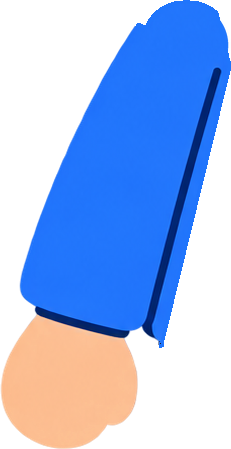
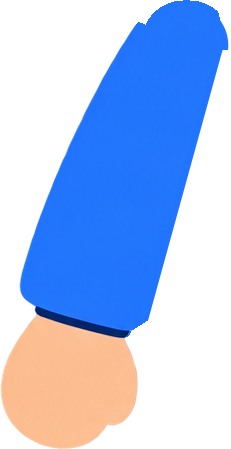
Tuấn: viền tay áo chỉ hiện khi tay nép sát thân áo, tay đưa ra không còn viền lệch
- Đường viền tối giữa tay áo và thân áo tách thành lớp riêng, gắn theo tay và chỉ hiện khi tay nép sát thân (đứng, nói, vẫy, chỉ, suy nghĩ); khi đi, nhảy, nhún vai, reo hò thì ẩn hẳn
- Mép trong tay áo khi tay đưa ra là đường thẳng mượt, hết mẩu thân áo và góc nhọn dính theo tay
- Tay buông giữ sát thân hơn khi đứng yên và nói (Fed và các nhân vật ảnh khác cũng vậy)

Claude-Session: https://claude.ai/code/session_01KE7T9iurw6JNVmRrpUeRTW

Changed region(s): [[0.5455, 0.0935, 1.0, 0.7795]]

diff --git a/remotion-remake/src/remotion/fedtoon/Puppet.tsx b/remotion-remake/src/remotion/fedtoon/Puppet.tsx
@@ -424,13 +424,13 @@ function rigPose(action: Action, expression: Expression, t: number) {
   const pose = (() => {
     switch (action) {
       case "wave":
-        return { head: 3 + wave(t, 1.1) * 2, raise: 0, bend: -wave(t, 2.2) * 16, hang: 2, sway: 0 };
+        return { head: 3 + wave(t, 1.1) * 2, raise: 0, bend: -wave(t, 2.2) * 16, hang: 0.3, sway: 0 };
       case "point":
-        return { head: 2, raise: 6 - wave(t, 0.5) * 1.5, bend: 0, hang: 1, sway: 0 };
+        return { head: 2, raise: 6 - wave(t, 0.5) * 1.5, bend: 0, hang: 0.3, sway: 0 };
       case "walk":
         return { head: wave(t, 1.8) * 1.5, raise: -wave(t, 1.8) * 6, bend: 0, hang: wave(t, 1.8) * 9, sway: wave(t, 1.8) * 1.5 };
       case "think":
-        return { head: -6, raise: 20, bend: 14 - wave(t, 0.4) * 1.5, hang: 1, sway: 0 };
+        return { head: -6, raise: 20, bend: 14 - wave(t, 0.4) * 1.5, hang: 0.3, sway: 0 };
       case "cheer":
         return { head: wave(t, 2.5) * 3, raise: 12, bend: 6 - wave(t, 2.5) * 10, hang: 10 + wave(t, 2.5) * 5, sway: 0 };
       case "shrug": {
@@ -440,9 +440,9 @@ function rigPose(action: Action, expression: Expression, t: number) {
       case "jump":
         return { head: wave(t, 1.1) * 2, raise: 8, bend: 4, hang: 8, sway: 0 };
       case "talk":
-        return { head: wave(t, 0.7) * 3, raise: 3, bend: -wave(t, 0.8) * 9, hang: 1 + wave(t, 0.8, 0.3) * 2, sway: 0 };
+        return { head: wave(t, 0.7) * 3, raise: 3, bend: -wave(t, 0.8) * 9, hang: 0.3 + wave(t, 0.8, 0.3) * 0.3, sway: 0 };
       default:
-        return { head: wave(t, 0.4) * 1.5, raise: 0, bend: -wave(t, 0.5) * 3, hang: 1 + wave(t, 0.5) * 1.5, sway: 0 };
+        return { head: wave(t, 0.4) * 1.5, raise: 0, bend: -wave(t, 0.5) * 3, hang: 0.2 + wave(t, 0.5) * 0.2, sway: 0 };
     }
   })();
   return { ...pose, head: pose.head + tilt };
@@ -498,13 +498,27 @@ const Joint: React.FC<RigCtx & { pivot: readonly number[]; deg: number; children
  * An arm: each segment turns around its pivot, inside the previous one; later segments sit behind
  * earlier ones. Only the segments on the requested layer (`front` or not) are drawn.
  */
-const RigArm: React.FC<RigCtx & { segments: CharacterRig["arms"][number]["segments"]; angles: number[]; front: boolean }> = ({ rig, s, segments, angles, front }) => {
+type ArmLayer = "back" | "front" | "seam";
+
+/**
+ * Opacity of a sleeve seam: 1 while the sleeve stays against the body (its farthest point moved less
+ * than ~4 source px), fading out by ~10 px: an arm held out in the air has no seam line.
+ */
+/** Actions where the arms stay against the body (other actions swing them out: no seams at all). */
+const SNUG_ACTIONS: readonly Action[] = ["idle", "talk", "wave", "point", "think"];
+
+const seamOpacity = (reach: number, deg: number) => Math.min(1, Math.max(0, (10 - reach * Math.sin((Math.abs(deg) * Math.PI) / 180)) / 6));
+
+const RigArm: React.FC<RigCtx & { segments: CharacterRig["arms"][number]["segments"]; angles: number[]; layer: ArmLayer; turned?: number }> = ({ rig, s, segments, angles, layer, turned = 0 }) => {
   const [first, ...rest] = segments;
   if (!first) return null;
+  const deg = angles[0] ?? 0;
+  const seam = layer === "seam" && first.seam ? seamOpacity(first.seam.reach, turned + deg) : 0;
   return (
-    <Joint rig={rig} s={s} pivot={first.pivot} deg={angles[0] ?? 0}>
-      {rest.length > 0 && <RigArm rig={rig} s={s} segments={rest} angles={angles.slice(1)} front={front} />}
-      {!!first.front === front && <RigImg rig={rig} s={s} name={first.part} />}
+    <Joint rig={rig} s={s} pivot={first.pivot} deg={deg}>
+      {rest.length > 0 && <RigArm rig={rig} s={s} segments={rest} angles={angles.slice(1)} layer={layer} turned={turned + deg} />}
+      {layer !== "seam" && !!first.front === (layer === "front") && <RigImg rig={rig} s={s} name={first.part} />}
+      {seam > 0 && first.seam && <RigImg rig={rig} s={s} name={first.seam.part} style={{ opacity: seam }} />}
     </Joint>
   );
 };
@@ -688,10 +702,11 @@ const RigPuppet: React.FC<PuppetProps & { rig: CharacterRig; eyes: number; width
             const arm = rig.arms[Number(i)];
             if (!arm) return null;
             const state = armAngles(arm, Number(i));
-            const cap = !state.drawn && layer !== "front" ? arm.cap : undefined;
+            if (layer === "seam" && !SNUG_ACTIONS.includes(action)) return null;
+            const cap = !state.drawn && !layer ? arm.cap : undefined;
             return (
               <React.Fragment key={item}>
-                <RigArm rig={rig} s={s} segments={arm.segments} angles={state.angles} front={layer === "front"} />
+                <RigArm rig={rig} s={s} segments={arm.segments} angles={state.angles} layer={layer === "front" || layer === "seam" ? layer : "back"} />
                 {cap && (
                   <div
                     style={{

diff --git a/remotion-remake/src/fedtoon/cast-rigs.ts b/remotion-remake/src/fedtoon/cast-rigs.ts
@@ -338,6 +338,18 @@ export const CAST_RIGS: Record<string, CharacterRig> = {
         "w": 391,
         "h": 992
       },
+      "arm-r-upper-seam": {
+        "x": 595,
+        "y": 690,
+        "w": 19,
+        "h": 92
+      },
+      "arm-l-seam": {
+        "x": 316,
+        "y": 690,
+        "w": 54,
+        "h": 271
+      },
       "mouth": {
         "x": 447,
         "y": 471,
@@ -374,7 +386,11 @@ export const CAST_RIGS: Record<string, CharacterRig> = {
             "pivot": [
               600,
               672
-            ]
+            ],
+            "seam": {
+              "part": "arm-r-upper-seam",
+              "reach": 107
+            }
           },
           {
             "part": "arm-r-lower",
@@ -395,7 +411,11 @@ export const CAST_RIGS: Record<string, CharacterRig> = {
             "pivot": [
               355,
               670
-            ]
+            ],
+            "seam": {
+              "part": "arm-l-seam",
+              "reach": 292
+            }
           }
         ]
       }
@@ -404,6 +424,8 @@ export const CAST_RIGS: Record<string, CharacterRig> = {
       "arm:0",
       "arm:1",
       "body",
+      "arm:0:seam",
+      "arm:1:seam",
       "head"
     ],
     "eyes": [
@@ -788,6 +810,12 @@ export const CAST_RIGS: Record<string, CharacterRig> = {
         "w": 445,
         "h": 948
       },
+      "arm-l-seam": {
+        "x": 318,
+        "y": 665,
+        "w": 96,
+        "h": 271
+      },
       "mouth": {
         "x": 517,
         "y": 400,
@@ -844,7 +872,11 @@ export const CAST_RIGS: Record<string, CharacterRig> = {
             "pivot": [
               377,
               644
-            ]
+            ],
+            "seam": {
+              "part": "arm-l-seam",
+              "reach": 295
+            }
           }
         ],
         "trim": true
@@ -854,6 +886,7 @@ export const CAST_RIGS: Record<string, CharacterRig> = {
       "arm:0",
       "arm:1",
       "body",
+      "arm:1:seam",
       "head"
     ],
     "eyes": [

diff --git a/remotion-remake/src/fedtoon/rig.ts b/remotion-remake/src/fedtoon/rig.ts
@@ -28,7 +28,11 @@ export type CharacterRig = {
   arms: readonly {
     side: "left" | "right";
     kind: "raised" | "hanging";
-    segments: readonly { part: string; pivot: Pt; front?: boolean }[];
+    /**
+     * `seam`: the dark line where the sleeve meets the body, drawn by "arm:<i>:seam" over the body and
+     * only while the sleeve stays against the body (`reach` = its farthest pixel from the pivot).
+     */
+    segments: readonly { part: string; pivot: Pt; front?: boolean; seam?: { part: string; reach: number } }[];
     rest?: readonly number[];
     point?: readonly number[];
     /** Shoulder side of the first segment left to the body, outside its joint disc (assets/cast/split.py). */
@@ -42,7 +46,7 @@ export type CharacterRig = {
   shoulderShare?: number;
   /** Other drawings of the same character for some actions, e.g. { wave: "man-wave" } (ids in CAST_RIGS). */
   poses?: Record<string, string>;
-  /** Drawing order, back to front: part names, "arm:<index>", "arm:<index>:front" or "head" (head, brows, mouth, eyelids). */
+  /** Drawing order, back to front: part names, "arm:<index>", "arm:<index>:front", "arm:<index>:seam" or "head" (head, brows, mouth, eyelids). */
   order: readonly string[];
   /** The expression of the drawn mouth and whether it is open (an open mouth is reused for speech). Default: an open smile. */
   mouthStyle?: { drawn: string; open: boolean };

diff --git a/remotion-remake/assets/cast/split.py b/remotion-remake/assets/cast/split.py
@@ -13,6 +13,7 @@ Kết quả:
 Cấu hình rig.json:
   classes   nhóm màu {tên: [mã màu, ...]}; mỗi pixel thuộc nhóm có màu gần nó nhất
   parts     bộ phận theo thứ tự ưu tiên: {name, regions: [{polygon, classes?}]}; phần còn lại là "body"
+  erase     [{part, polygon}] vùng xoá khỏi một bộ phận (mẩu nhọn lộ ra khi cử động)
   fills     phần bị che (chỉ lộ ra khi bộ phận xoay): {part, color, disc: [x, y, r]} | {part, color, polygon, under}
             | {part, color, dilate: px, into: part}
   head      {pivot}; arms [{side, kind: raised|hanging, segments: [{part, pivot}]}] (đoạn sau nằm trong đoạn trước)
@@ -181,6 +182,49 @@ def split(cid: str, done: dict) -> dict:
                 where &= masks[f["under"]] | dilate(masks[f["under"]], 2)
             paint(f["part"], where, f["color"])
 
+    # Đường viền giữa tay áo và thân áo: tách thành lớp riêng "<đoạn tay>-seam" để chỉ hiện khi tay
+    # nép sát thân (Remotion ẩn nó khi tay đưa ra); chỗ cũ trên tay và thân tô màu áo.
+    xs, ys = np.meshgrid(np.arange(w), np.arange(h))
+    arms_out = []
+    for arm in cfg["arms"]:
+        segs = []
+        for seg in arm["segments"]:
+            seam = seg.get("seam")
+            seg = {k: v for k, v in seg.items() if k != "seam"}
+            if seam:
+                region = polygon(w, h, seam["polygon"]) & visible
+                line = region & (dist(rgb, seam["color"]) < 70)
+                cut = dilate(line, 2) & region
+                arr = rgba.copy()
+                arr[..., 3] = np.where(cut, alpha, 0)
+                name = f"{seg['part']}-seam"
+                layers[name] = arr
+                for other in list(layers):
+                    if other != name and other != "head" and not other.endswith("-seam"):
+                        paint(other, cut & (layers[other][..., 3] > 0), cfg["colors"]["shirt"], force=True)
+                # Mép trong của tay áo khi tay đưa ra: thẳng và mượt theo tâm đường viền (khử răng cưa),
+                # không còn mẩu viền hay mẩu thân áo dính theo tay.
+                ys_, xs_ = np.nonzero(line)
+                rows = np.unique(ys_)
+                spans = np.array([np.ptp(xs_[ys_ == r]) + 1 for r in rows])
+                centers = np.array([xs_[ys_ == r].mean() for r in rows])
+                straight = spans <= 1.5 * np.median(spans)
+                slope, icpt = np.polyfit(rows[straight], centers[straight], 1)
+                arm_layer = layers[seg["part"]]
+                side = 1 if np.argwhere(masks["body"]).mean(0)[1] > np.argwhere(masks[seg["part"]]).mean(0)[1] else -1
+                d = (xs - (slope * ys + icpt)) * side / np.sqrt(1 + slope * slope)
+                keep = np.clip(0.5 - d, 0, 1)
+                near = dilate(region, 6)
+                arm_layer[..., 3] = np.where(near, arm_layer[..., 3] * keep, arm_layer[..., 3])
+                px, py = seg["pivot"]
+                seg["seam"] = {"part": name, "reach": int(np.sqrt((xs_ - px) ** 2 + (ys_ - py) ** 2).max())}
+            segs.append(seg)
+        arms_out.append({**arm, "segments": segs})
+
+    # Xoá tay những mẩu nhỏ không đẹp khi bộ phận cử động (vd. góc nhọn của tay áo).
+    for e in cfg.get("erase", []):
+        layers[e["part"]][..., 3] = np.where(polygon(w, h, e["polygon"]), 0, layers[e["part"]][..., 3])
+
     # Miệng và lông mày tách khỏi đầu để đổi biểu cảm; chỗ cũ tô màu da.
     face = cfg["face"]
     xs, ys = np.meshgrid(np.arange(w), np.arange(h))
@@ -251,7 +295,7 @@ def split(cid: str, done: dict) -> dict:
         "centerX": cfg["centerX"],
         "parts": parts,
         "head": cfg["head"],
-        "arms": cfg["arms"],
+        "arms": arms_out,
         "order": cfg["order"],
         "eyes": face["eyes"],
         "mouthTop": mouth_top,

diff --git a/docs/ke-hoach-dung-video-hoat-hinh.md b/docs/ke-hoach-dung-video-hoat-hinh.md
@@ -13,7 +13,7 @@
 | Bộ nhận diện | `remotion-remake/src/fedtoon/brand.ts` | Bảng màu, font Nunito, mô tả phong cách ảnh (sửa được ở tab Cài đặt: `FEDTOON_IMAGE_STYLE`) |
 | Nhân vật (hướng C) | `remotion-remake/src/remotion/fedtoon/Puppet.tsx`, `src/fedtoon/cast.ts` | 05/11: kênh quốc tế (tiếng Anh): nhân vật phụ dùng id/tên tiếng Anh, chỉ minh hoạ cho lời thoại (không tên, không vai, không nói, không gọi tên nhau); `finalizeStoryboard` đặt người nói là người dẫn hoặc Fed, id cũ (mai, tuan…) vẫn đọc được. |
 | Nhân vật vẽ bằng code | `remotion-remake/src/remotion/fedtoon/Puppet.tsx` | Nhân vật người vẽ bằng SVG theo ảnh mẫu của chủ kênh `remotion-remake/assets/cast/reference.png` (05/11: cùng phong cách với Fed: đầu to, tai tròn, mắt to có đốm sáng, áo dài tay, quần và giày sẫm). Không cắt ảnh mẫu như Fed vì ảnh nhỏ (mỗi người ~400 px) và mỗi người bị cố định một tư thế. Dàn nhân vật phụ cố định: Mai, Tuấn, Lan, Khoa, Bảo, An, Ông (AI dùng lại theo id, ngoại hình bị khoá); người khác được tuỳ chỉnh da, tóc, màu áo, kiểu áo (len, hoodie, polo), quần (sẫm, jean), phụ kiện; 9 động tác, 6 biểu cảm, chớp mắt, khẩu hình theo mốc thời gian từng từ của ElevenLabs. Xem tất cả: Remotion Studio → `FedtoonCast` |
-| Nhân vật phụ từ ảnh | `remotion-remake/assets/cast/<id>/` → `public/fedtoon/cast/<id>/`, `src/fedtoon/cast-rigs.ts` | 05/11: chủ kênh gửi ảnh nét từng nhân vật, dùng ảnh thay cho bản vẽ code. Đã xong: **woman** (Mai cũ), **man** (Tuấn, làm lại 05/11 với 2 ảnh), **scientist** (Lan), **kid** (An), **grandpa** (Ông); chủ kênh thấy 4 nhân vật sau còn méo nên làm lại từng người, mỗi người thêm một ảnh dáng tự nhiên. Cách làm lại (đã áp dụng cho man): ảnh dáng tự nhiên làm rig chính, ảnh cũ thành rig phụ `<id>-<động tác>` chỉ dùng cho động tác của nó (`poses` trong rig.json, vd. man: wave, cheer → man-wave), miệng cười của rig chính ghép sang rig phụ (`mouthFrom`), `shoulderShare` dồn chuyển động tay vào khuỷu cho vai đỡ lộ đường cắt, `trim` để phần vai ngoài vòng khớp ở lại thân áo; tránh xoay tay góc lớn (`rest`) vì dễ méo. Còn vẽ bằng code: **teen** (Khoa, chưa có ảnh) và **boy** (Bảo: ảnh đang nhảy co chân nên không dựng thành dáng đứng được, cần ảnh đứng thẳng). Mỗi nhân vật có `rig.json`: vùng từng bộ phận (đa giác + nhóm màu), khớp xoay, vòng khớp lấp chỗ hở, mắt, miệng, lông mày; tay giơ trong ảnh có `rest` (góc hạ tay khi nghỉ), `point`, `cap` (vai tròn khi hạ tay); `drawnAction` (động tác của ảnh: man vẫy, scientist chỉ, kid suy nghĩ, grandpa reo hò), `mouthStyle` (miệng trong ảnh: các biểu cảm khác vẽ bằng vector); đoạn tay `front` vẽ trước mặt (tay kid chạm thái dương). `python assets/cast/split.py <id>` cắt ảnh. Fed và nhân vật ảnh dùng chung bộ dựng `src/fedtoon/rig.ts` + `RigPuppet`. Xem: Remotion Studio → `FedtoonMascot` với props `{"id":"man"}`… |
+| Nhân vật phụ từ ảnh | `remotion-remake/assets/cast/<id>/` → `public/fedtoon/cast/<id>/`, `src/fedtoon/cast-rigs.ts` | 05/11: chủ kênh gửi ảnh nét từng nhân vật, dùng ảnh thay cho bản vẽ code. Đã xong: **woman** (Mai cũ), **man** (Tuấn, làm lại 05/11 với 2 ảnh), **scientist** (Lan), **kid** (An), **grandpa** (Ông); chủ kênh thấy 4 nhân vật sau còn méo nên làm lại từng người, mỗi người thêm một ảnh dáng tự nhiên. Cách làm lại (đã áp dụng cho man): ảnh dáng tự nhiên làm rig chính, ảnh cũ thành rig phụ `<id>-<động tác>` chỉ dùng cho động tác của nó (`poses` trong rig.json, vd. man: wave, cheer → man-wave), miệng cười của rig chính ghép sang rig phụ (`mouthFrom`), `shoulderShare` dồn chuyển động tay vào khuỷu cho vai đỡ lộ đường cắt, `trim` để phần vai ngoài vòng khớp ở lại thân áo; tránh xoay tay góc lớn (`rest`) vì dễ méo. Đường viền tối giữa tay áo và thân áo (`seam` của đoạn tay) tách thành lớp riêng vẽ trên thân áo: chỉ hiện khi tay nép sát thân (động tác idle/talk/wave/point/think, tay lệch dưới ~4 px), tay đưa ra thì ẩn và mép trong tay áo là một đường thẳng mượt theo tâm đường viền; `erase` xoá tay mẩu nhọn còn sót (chủ kênh yêu cầu 05/11: viền chỉ dùng khi tay áo nép sát thân). Còn vẽ bằng code: **teen** (Khoa, chưa có ảnh) và **boy** (Bảo: ảnh đang nhảy co chân nên không dựng thành dáng đứng được, cần ảnh đứng thẳng). Mỗi nhân vật có `rig.json`: vùng từng bộ phận (đa giác + nhóm màu), khớp xoay, vòng khớp lấp chỗ hở, mắt, miệng, lông mày; tay giơ trong ảnh có `rest` (góc hạ tay khi nghỉ), `point`, `cap` (vai tròn khi hạ tay); `drawnAction` (động tác của ảnh: man vẫy, scientist chỉ, kid suy nghĩ, grandpa reo hò), `mouthStyle` (miệng trong ảnh: các biểu cảm khác vẽ bằng vector); đoạn tay `front` vẽ trước mặt (tay kid chạm thái dương). `python assets/cast/split.py <id>` cắt ảnh. Fed và nhân vật ảnh dùng chung bộ dựng `src/fedtoon/rig.ts` + `RigPuppet`. Xem: Remotion Studio → `FedtoonMascot` với props `{"id":"man"}`… |
 | Linh vật Fed | `remotion-remake/assets/mascot/` → `public/fedtoon/mascot/` | Ảnh do chủ kênh tự tạo (05/11), giữ nguyên nét vẽ. `split.py` cắt ảnh thành tay buông, cẳng tay đang giơ, thân, đầu, miệng, hai lông mày và sinh `src/fedtoon/mascot-rig.ts` (vị trí, khớp xoay). Remotion xoay đầu quanh cổ, cẳng tay quanh khuỷu, tay buông quanh vai; mí mắt vẽ đè để chớp mắt, miệng co giãn theo giọng đọc, lông mày đổi theo biểu cảm. Chân không cử động (đi bộ = nhún + trượt). Xem: Remotion Studio → `FedtoonMascot`. Đổi ảnh linh vật: thay `source.png`, đo lại toạ độ trong `split.py`, chạy `python assets/mascot/split.py` (cần Pillow + numpy) |
 | Kịch bản theo cảnh | `remotion-remake/src/spec/storyboard.ts`, `src/pipeline/storyboard-ai.ts` | AI (Claude/OpenAI) viết: lời thoại (chế độ **Bản sao** chép đúng từng câu theo phụ đề, app báo % từ giữ được; **Remix** viết mới), người nói, mô tả nền, góc máy, nhân vật + động tác + biểu cảm, đồ vật, chữ, chuyển cảnh, hiệu ứng âm thanh |
 | Vẽ ảnh (hướng A) | `remotion-remake/src/pipeline/images.ts` | `gpt-image-2.5-sunburst` mặc định (đổi được), nền 9:16 đúng khung, đồ vật nền trong suốt; mỗi ảnh vẽ một lần; ảnh bị từ chối được thay bằng hình vẽ sẵn |
